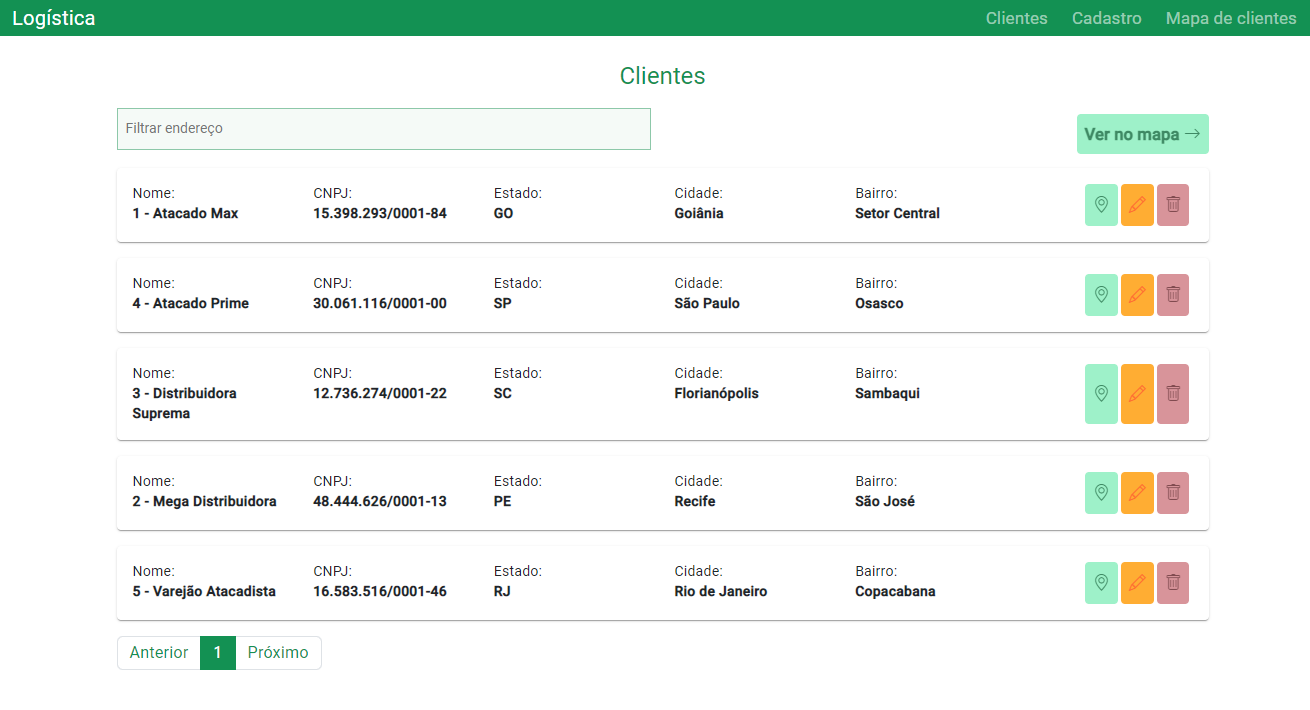
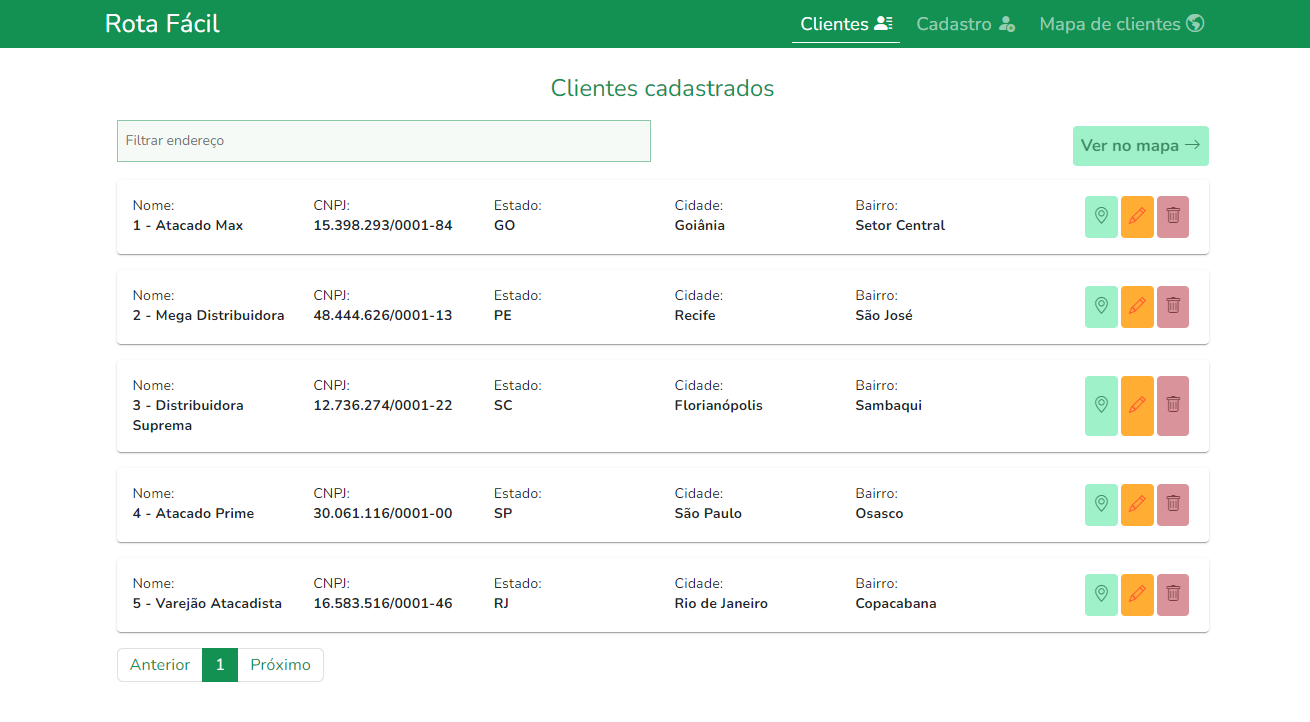
docs: Atualização do README

diff --git a/README.md b/README.md
@@ -1,8 +1,68 @@
-<h1>Controle de Cadastro de Clientes</h1>
+<h1>Rota Fácil</h1>
 
-<p>O sistema de controle de cadastro de clientes é uma aplicação desenvolvida para gerenciar o cadastro de clientes e endereços. Através do sistema, é possível cadastrar novos clientes e seus respectivos endereços, vinculando-os geograficamente.</p>
+<p>O sistema Rota Fácil é uma aplicação desenvolvida para gerenciar o cadastro de clientes e endereços. Através do sistema, é possível cadastrar novos clientes e seus respectivos endereços, vinculando-os geograficamente.</p>
 
-<h2>Pré-requisitos</h2>
+<h2>Funcionalidades</h2>
+
+<h4>1. Cadastro de clientes</h4>
+<p>O cadastro de clientes é uma das principais funcionalidades do sistema, e para garantir a qualidade dos dados cadastrados, são aplicadas as seguintes regras de negócio:</p>
+<ul>
+
+<li>O sistema permite o cadastro de clientes com nome , CNPJ e endereço com localização geográfica;</li>
+
+<li>O sistema não permite o cadastro de um cliente sem nome, CNPJ e endereço com localização;</li>
+
+<li>O cadastro de endereço inclui localização geográfica;</li>
+
+<li>Validação de CEP por meio da API do ViaCep;</li>
+
+<li>Busca das referências de latitude e longitude por meio da API do Google Maps.</li>
+
+</ul>
+
+<img src="imagens/cadastro-clientes.png" alt="Cadastro de clientes">
+
+> Na tela acima, é possível realizar o cadastro de um cliente contando com validação de CEP por meio da API do ViaCep e obtenção da latitude e longitude do cliente por meio da API do Google Maps e sua exibição.
+
+<h4>2. Visualização de clientes no mapa</h4>
+<p>A funcionalidade de visualização de clientes no mapa permite que os usuários do sistema possam ver a localização dos clientes cadastrados. Para garantir a efetividade dessa funcionalidade, são aplicadas as seguintes regras de negócio:</p>
+<ul>
+
+<li>O sistema permite a visualização dos clientes cadastrados em um mapa utilizando a API do Google Maps.</li>
+
+</ul>
+
+<img src="imagens/exibicao-clientes.png" alt="Exibição de clientes">
+
+> A tela acima exibe os clientes de forma listada, oferecendo opções para edição, exclusão e visualização da localização do cliente no mapa.
+
+<img src="imagens/exibicao-mapa-cliente.png" alt="Mapa de um cliente">
+
+> A imagem acima ilustra a exibição da localização do cliente selecionado com informações mais detalhadas sobre a sua localização.
+
+<img src="imagens/mapa-clientes.png" alt="Mapa de clientes">
+
+> A tela acima se trata da exibição de todos os clientes cadastrados em um mapa com marcações em vermelho e o nome do cliente.
+
+<img src="imagens/mapa-clientes-filtrado.png" alt="Mapa de clientes filtrado">
+
+> A imagem acima demonstra a utilização da ferramenta de filtro para trazer somente clientes que possuem alguma ocorrência do filtro informado em seus endereços.
+
+<h4>3. Requisitos não funcionais</h4>
+<p>Alguns dos requisitos não funcionais que o sistema possui são:</p>
+<ul>
+
+<li>Performance: o sistema possui boa performance e responde rapidamente às consultas;</li>
+
+<li>Usabilidade: o sistema é de fácil utilização e navegação;</li>
+
+<li>Escalabilidade: o sistema é escalável, permitindo o cadastro de um grande número de clientes e endereços.</li>
+
+</ul>
+
+<h2>Instruções de uso</h2>
+
+<h3>Pré-requisitos</h3>
 <p>Antes de começar, verifique se você atendeu aos seguintes requisitos:</p>
 <ul>
 
@@ -17,19 +77,17 @@
 <p>Observação: para exibição dos mapas é necessário ter a chave para a API do Google Maps. Para isso, acesse o site: https://developers.google.com/maps/documentation/javascript/get-api-key
 </p>
 
-<p>Após a obtenção da chave é necessário configurar nos seguintes arquivos: </p>
+<p>Após a obtenção da chave é necessário configurar alguns arquivos. Abra o seguinte arquivo para ver um exemplo dessa configuração: </p>
 
 ```
-frontend/src/index.html
-frontend/src/app/services/geocoding-api.service.ts
+frontend/src/environments/environment_example.ts
 ```
 
-<h2>Instruções de uso</h2>
 <p>Para usar o cadastro de clientes, siga estas etapas:</p>
 <p>Clone o repositório</p>
 
 ```
-git clone https://github.com/gabrielsmm/cadastro-clientes.git
+git clone https://github.com/gabrielsmm/rota-facil.git
 ```
 
 <h4>Frontend</h4>
@@ -104,101 +162,3 @@ ng serve
 <li>Integração com ViaCep</li>
 
 </ul>
-
-<h2>Regras de negócio</h2>
-
-<h4>1. Cadastro de clientes</h4>
-<p>O cadastro de clientes é uma das principais funcionalidades do sistema, e para garantir a qualidade dos dados cadastrados, são aplicadas as seguintes regras de negócio:</p>
-<ul>
-
-<li>O sistema permite o cadastro de clientes com nome , CNPJ e endereço com localização geográfica;</li>
-
-<li>O sistema não permite o cadastro de um cliente sem nome, CNPJ e endereço com localização;</li>
-
-<li>O cadastro de endereço inclui localização geográfica;</li>
-
-<li>Validação de CEP por meio da API do ViaCep;</li>
-
-<li>Busca das referências de latitude e longitude por meio da API do Google Maps.</li>
-
-</ul>
-
-<img src="imagens/cadastro-clientes.png" alt="Cadastro de clientes">
-
-> Na tela acima, é possível realizar o cadastro de um cliente contando com validação de CEP por meio da API do ViaCep e obtenção da latitude e longitude do cliente por meio da API do Google Maps e sua exibição.
-
-<h4>2. Visualização de clientes no mapa</h4>
-<p>A funcionalidade de visualização de clientes no mapa permite que os usuários do sistema possam ver a localização dos clientes cadastrados. Para garantir a efetividade dessa funcionalidade, são aplicadas as seguintes regras de negócio:</p>
-<ul>
-
-<li>O sistema permite a visualização dos clientes cadastrados em um mapa utilizando a API do Google Maps.</li>
-
-</ul>
-
-<img src="imagens/exibicao-clientes.png" alt="Exibição de clientes">
-
-> A tela acima exibe os clientes de forma listada, oferecendo opções para edição, exclusão e visualização da localização do cliente no mapa.
-
-<img src="imagens/exibicao-mapa-cliente.png" alt="Mapa de um cliente">
-
-> A imagem acima ilustra a exibição da localização do cliente selecionado com informações mais detalhadas sobre a sua localização.
-
-<img src="imagens/mapa-clientes.png" alt="Mapa de clientes">
-
-> A tela acima se trata da exibição de todos os clientes cadastrados em um mapa com marcações em vermelho e o nome do cliente.
-
-<img src="imagens/mapa-clientes-filtrado.png" alt="Mapa de clientes filtrado">
-
-> A imagem acima demonstra a utilização da ferramenta de filtro para trazer somente clientes que possuem alguma ocorrência do filtro informado em seus endereços.
-
-<h4>3. Requisitos não funcionais</h4>
-<p>Alguns dos requisitos não funcionais que o sistema possui são:</p>
-<ul>
-
-<li>Performance: o sistema possui boa performance e responde rapidamente às consultas;</li>
-
-<li>Usabilidade: o sistema é de fácil utilização e navegação;</li>
-
-<li>Escalabilidade: o sistema é escalável, permitindo o cadastro de um grande número de clientes e endereços.</li>
-
-</ul>
-
-<h2>Plano de teste</h2>
-
-<h3>Técnicas de teste</h3>
-
-<ul>
-
-<li>Verificar se os requisitos de negócio estão sendo atendidos e se o sistema está funcionando corretamente;</li>
-
-<li>Verificar o funcionamento das funcionalidades de cadastro de cliente;</li>
-
-<li>Verificar a integração do sistema com o banco de dados e com outras ferramentas de suporte.</li>
-
-</ul>
-
-<h3>Casos de teste</h3>
-
-<h4>Cadastrar Cliente</h4>
-
-<p>Descrição: Verificar se é possível cadastrar um cliente com nome, CNPJ e endereço com localização.</p>
-
-<ol>
-    <li>Acessar o sistema;</li>
-    <li>Selecionar a opção de cadastro de cliente;</li>
-    <li>Informar o nome, CNPJ e endereço do cliente com localização;</li>
-    <li>Salvar o cadastro do cliente;</li>
-    <li>Verificar se o cadastro do cliente foi salvo corretamente no banco de dados.</li>
-</ol>
-
-<h4>Visualizar Clientes no Mapa</h4>
-
-<p>Descrição: Verificar se é possível visualizar os clientes em um mapa com opções de filtro.</p>
-
-<ol>
-    <li>Acessar o sistema;</li>
-    <li>Selecionar a opção de visualização de clientes no mapa;</li>
-    <li>Verificar se o mapa é exibido corretamente;</li>
-    <li>Selecionar uma opção de filtro;</li>
-    <li>Verificar se os clientes são exibidos corretamente de acordo com o filtro selecionado.</li>
-</ol>
